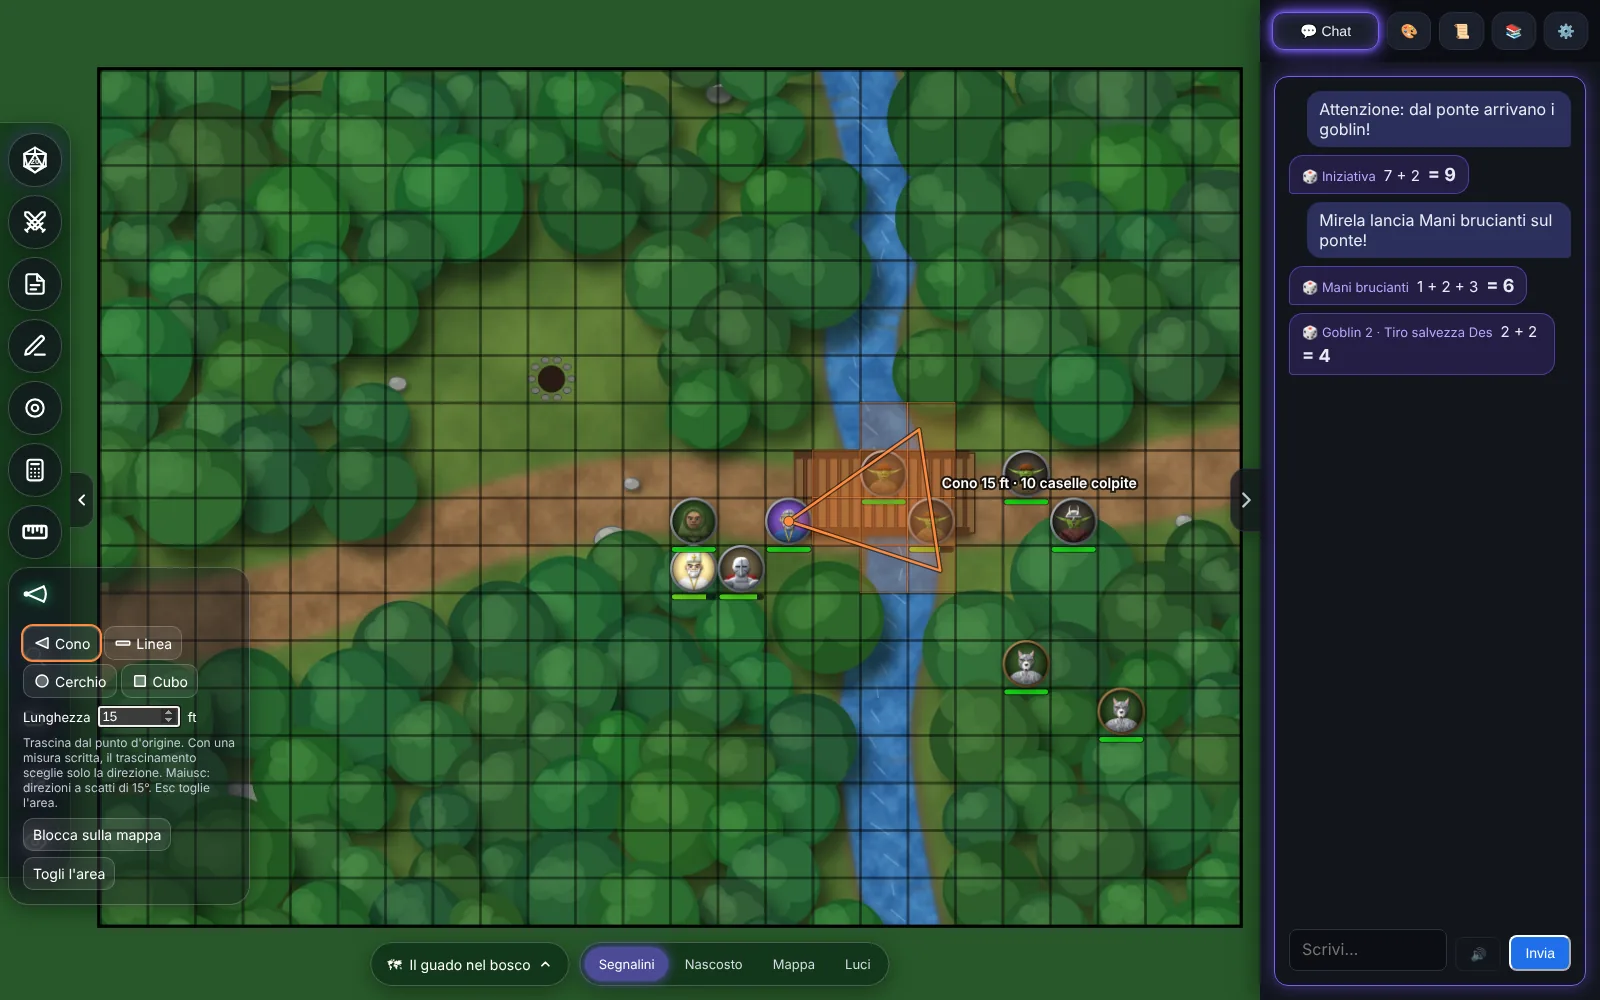
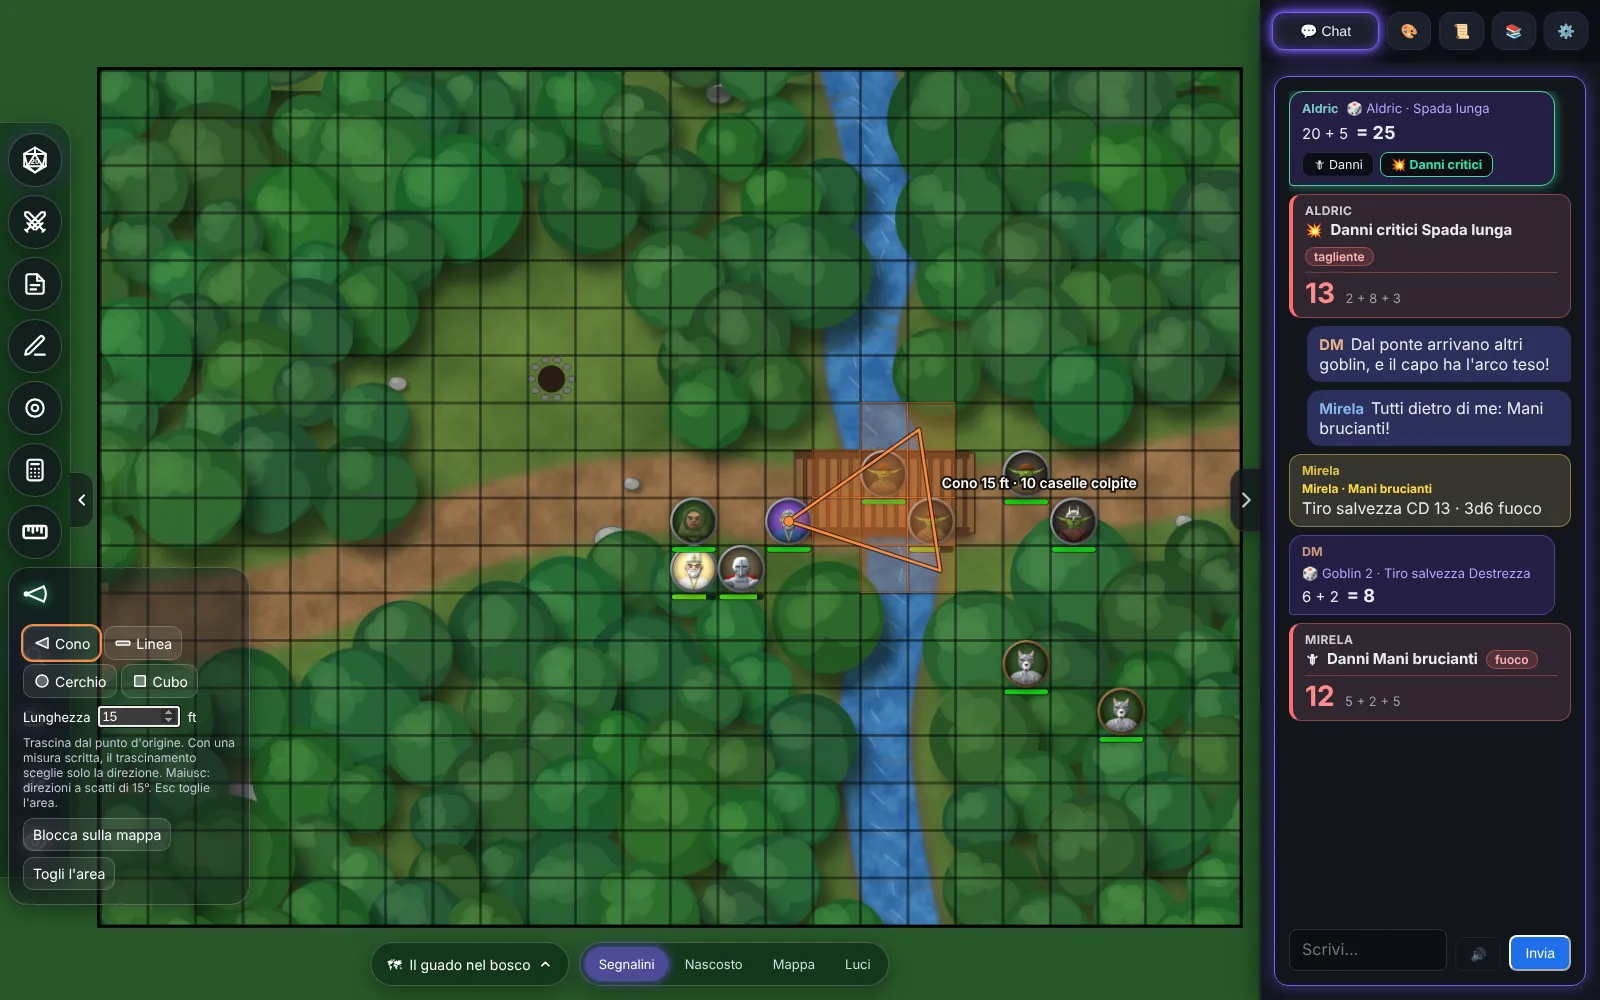
Foto del sito: cripta con la luce dinamica, chat del bosco come in una partita in rete
Claude-Session: https://claude.ai/code/session_012UnwLAovHbe9gsJW2mcLYx

Changed region(s): [[0.7812, 0.093, 1.0, 0.744]]

diff --git a/sviluppo/sito-web/pagina/pagina.js b/sviluppo/sito-web/pagina/pagina.js
@@ -32,8 +32,8 @@
     "Un lettore dello schermo e un lettore della chat leggono ad alta voce quello che succede al tavolo.": "A screen reader and a chat reader read out loud what happens at the table.",
     'Libero e aperto': 'Free and open',
     'Il codice è pubblico con licenza AGPL: chiunque può leggerlo, migliorarlo e aggiungere plugin.': 'The code is public under the AGPL license: anyone can read it, improve it and add plugins.',
-    'La cripta con la nebbia di guerra': 'The crypt with fog of war',
-    'La nebbia di guerra: il master vede attraverso il velo.': 'Fog of war: the GM sees through the veil.',
+    'La cripta con la luce dinamica': 'The crypt with dynamic lighting',
+    'La luce dinamica: muri, porte e torce decidono cosa vede il party.': 'Dynamic lighting: walls, doors and torches decide what the party sees.',
     'La scheda di un goblin': 'A goblin sheet',
     'Le schede in tre pagine, collegate ai segnalini.': 'Sheets in three pages, linked to tokens.',
     'Il master apre la partita': 'The GM opens the game',

diff --git a/sviluppo/sito-web/pagina/index.html b/sviluppo/sito-web/pagina/index.html
@@ -95,7 +95,7 @@
   </section>
 
   <section class="foto-doppie">
-    <figure><img src="immagini/cripta.webp" loading="lazy" alt="La cripta con la nebbia di guerra" data-ta="La cripta con la nebbia di guerra"><figcaption data-t="La nebbia di guerra: il master vede attraverso il velo.">La nebbia di guerra: il master vede attraverso il velo.</figcaption></figure>
+    <figure><img src="immagini/cripta.webp" loading="lazy" alt="La cripta con la luce dinamica" data-ta="La cripta con la luce dinamica"><figcaption data-t="La luce dinamica: muri, porte e torce decidono cosa vede il party.">La luce dinamica: muri, porte e torce decidono cosa vede il party.</figcaption></figure>
     <figure><img src="immagini/scheda.webp" loading="lazy" alt="La scheda di un goblin" data-ta="La scheda di un goblin"><figcaption data-t="Le schede in tre pagine, collegate ai segnalini.">Le schede in tre pagine, collegate ai segnalini.</figcaption></figure>
   </section>
 

diff --git a/README.it.md b/README.it.md
@@ -35,7 +35,7 @@ dal browser con il suo codice, senza installare niente (vedi [docs/sito-web.md](
 
 | La nebbia di guerra (il master vede attraverso il velo) | Le schede, collegate ai segnalini |
 |---|---|
-| ![La cripta con la nebbia](docs/immagini/cripta.webp) | ![La scheda di un goblin](docs/immagini/scheda.webp) |
+| ![La cripta con la luce dinamica](docs/immagini/cripta.webp) | ![La scheda di un goblin](docs/immagini/scheda.webp) |
 
 <sub>Mappe disegnate per queste immagini; segnalini dell'SRD inclusi nel programma.</sub>
 

diff --git a/README.md b/README.md
@@ -36,7 +36,7 @@ from the browser with the game code, without installing anything (see [docs/sito
 
 | Fog of war (the master sees through the veil) | Sheets, linked to the tokens |
 |---|---|
-| ![The crypt with fog](docs/immagini/cripta.webp) | ![A goblin's sheet](docs/immagini/scheda.webp) |
+| ![The crypt with dynamic lighting](docs/immagini/cripta.webp) | ![A goblin's sheet](docs/immagini/scheda.webp) |
 
 <sub>Maps drawn for these pictures; the SRD tokens are included in the program.</sub>
 
